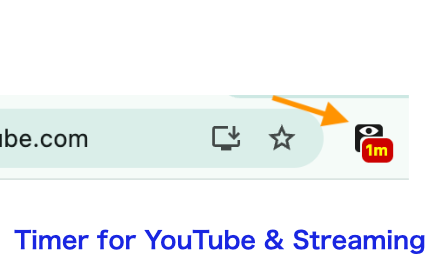
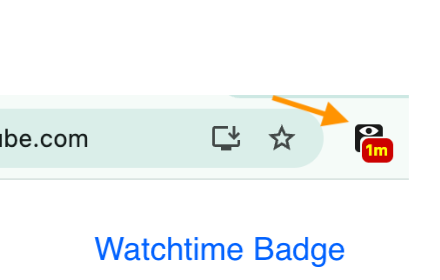
Rename addon/extention name

Changed region(s): [[0.0295, 0.8, 0.975, 0.9714]]

diff --git a/README.md b/README.md
@@ -1,4 +1,4 @@
-# Timer for YouTube & Streaming 🕒
+# Watchtime Badge: Timer for YouTube & Streaming 🕒
 
 A smart browser extension that tracks your viewing time on video streaming sites to help prevent binge-watching.
 
